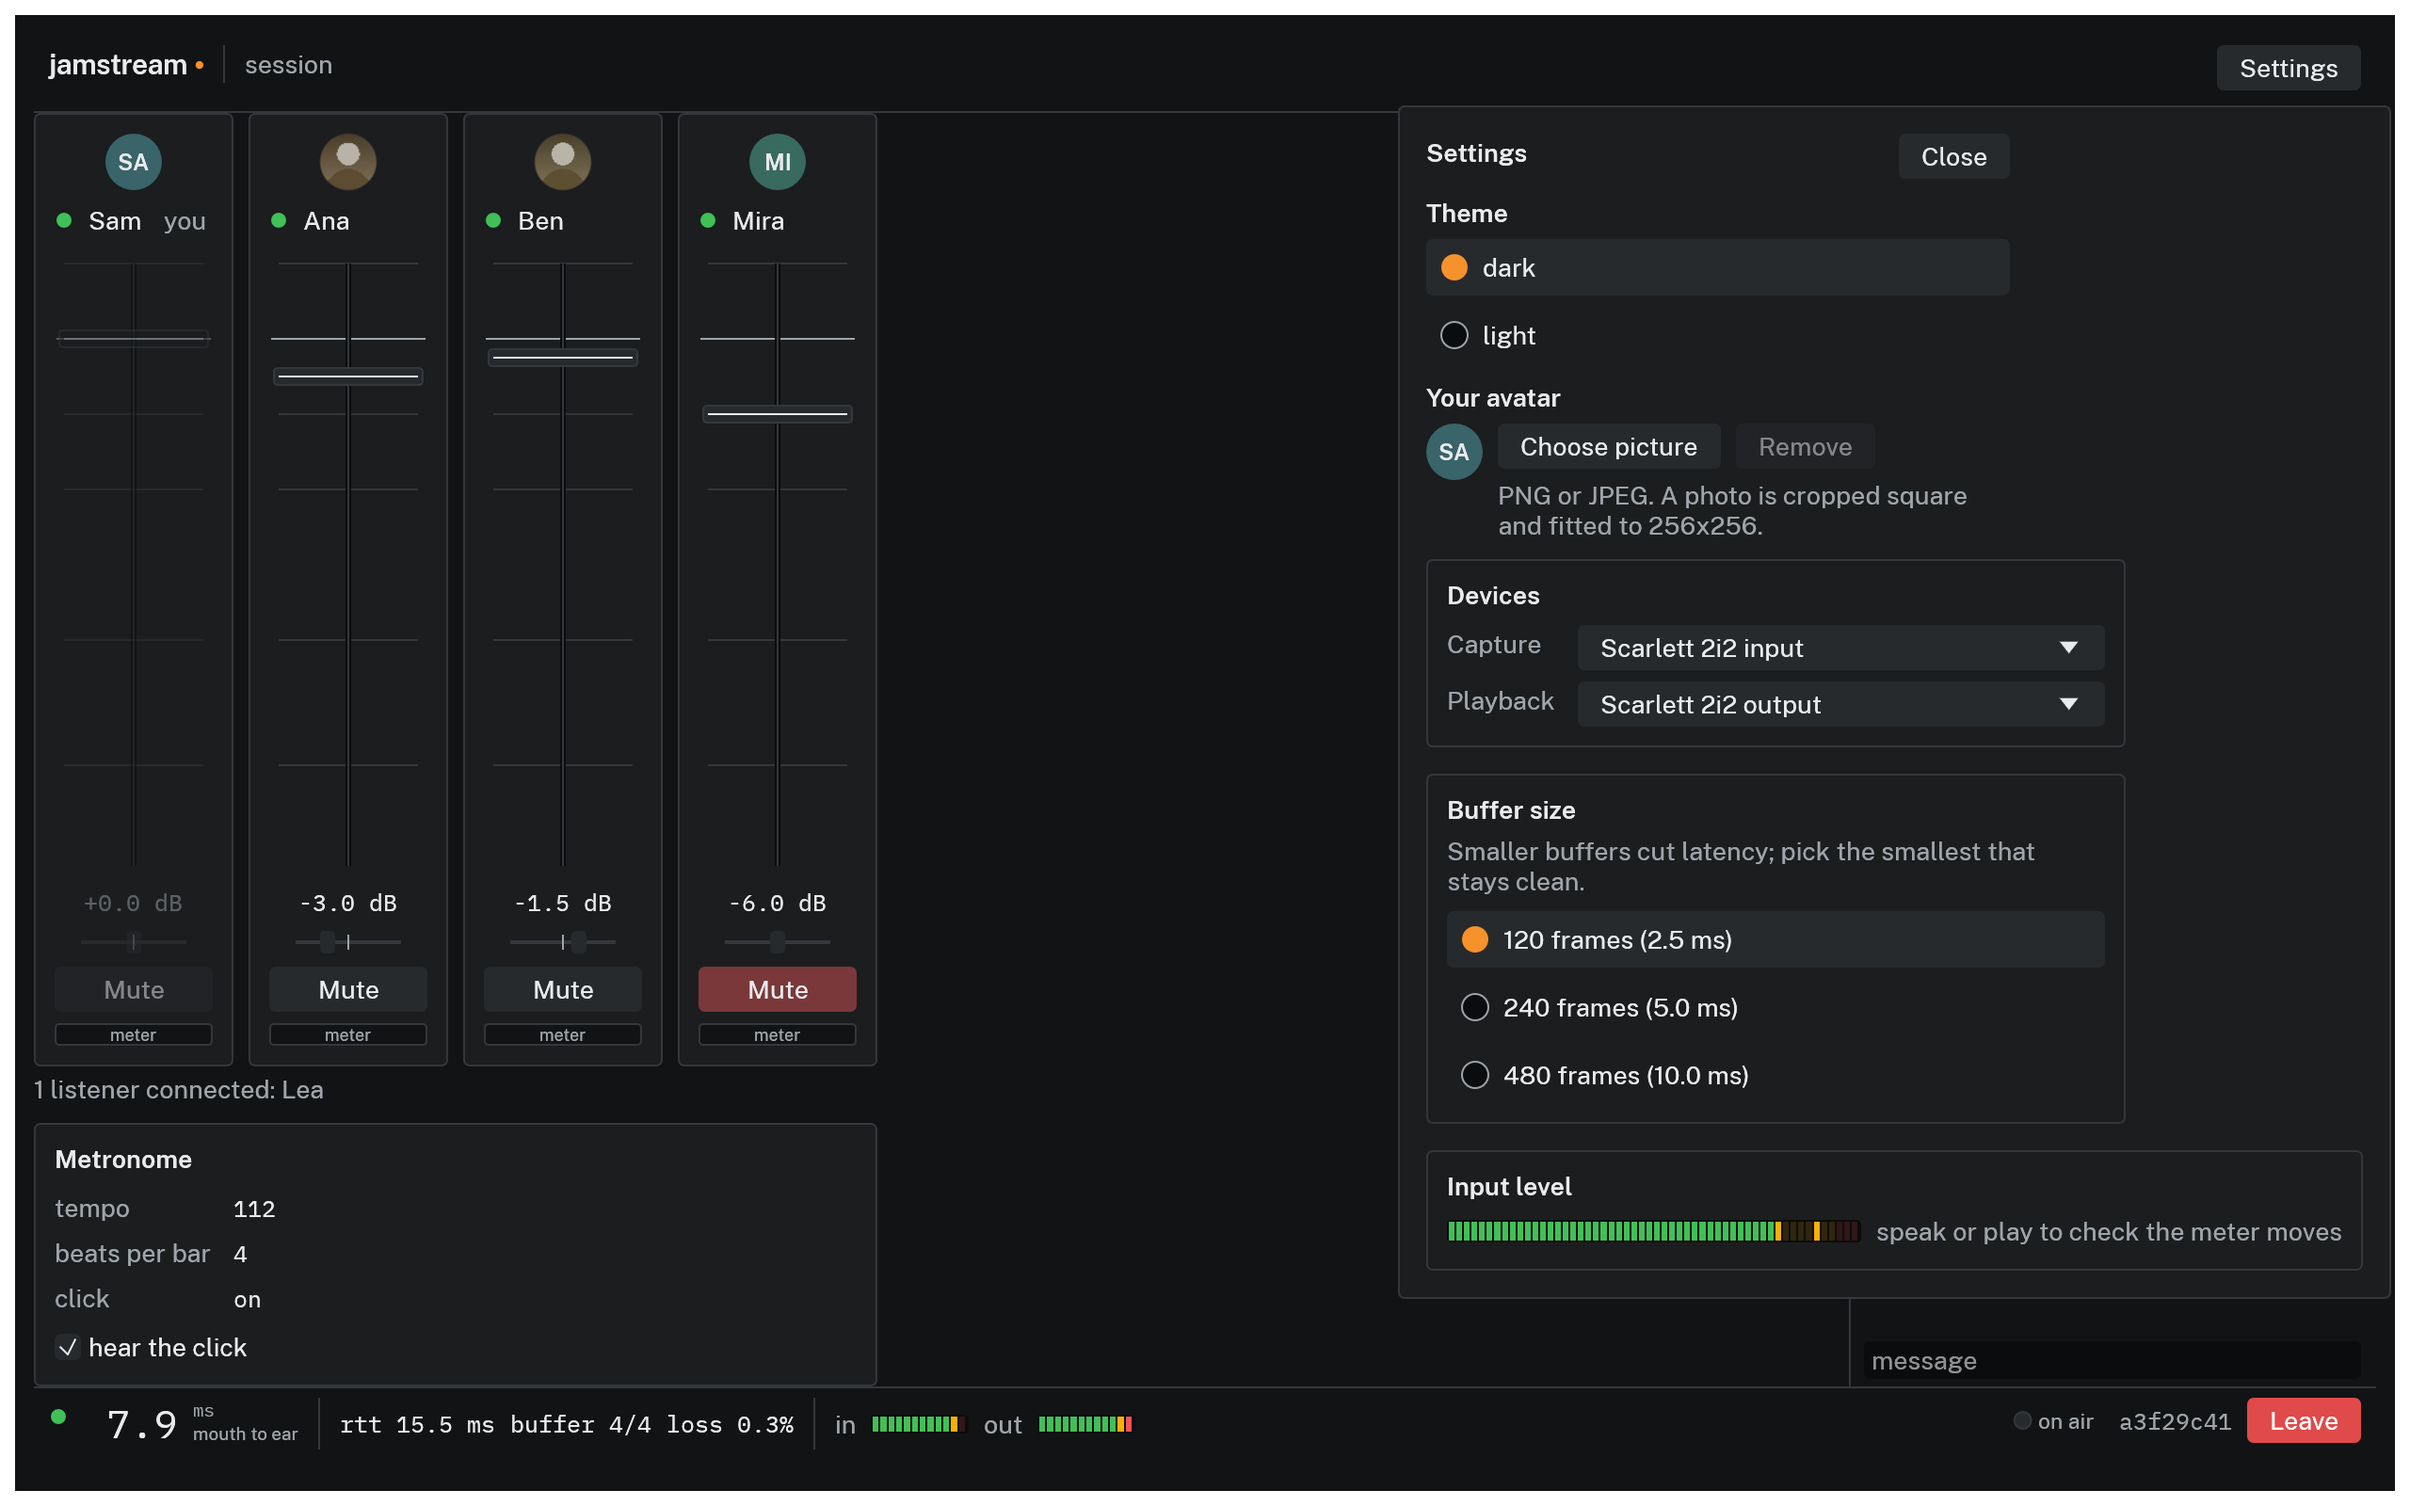
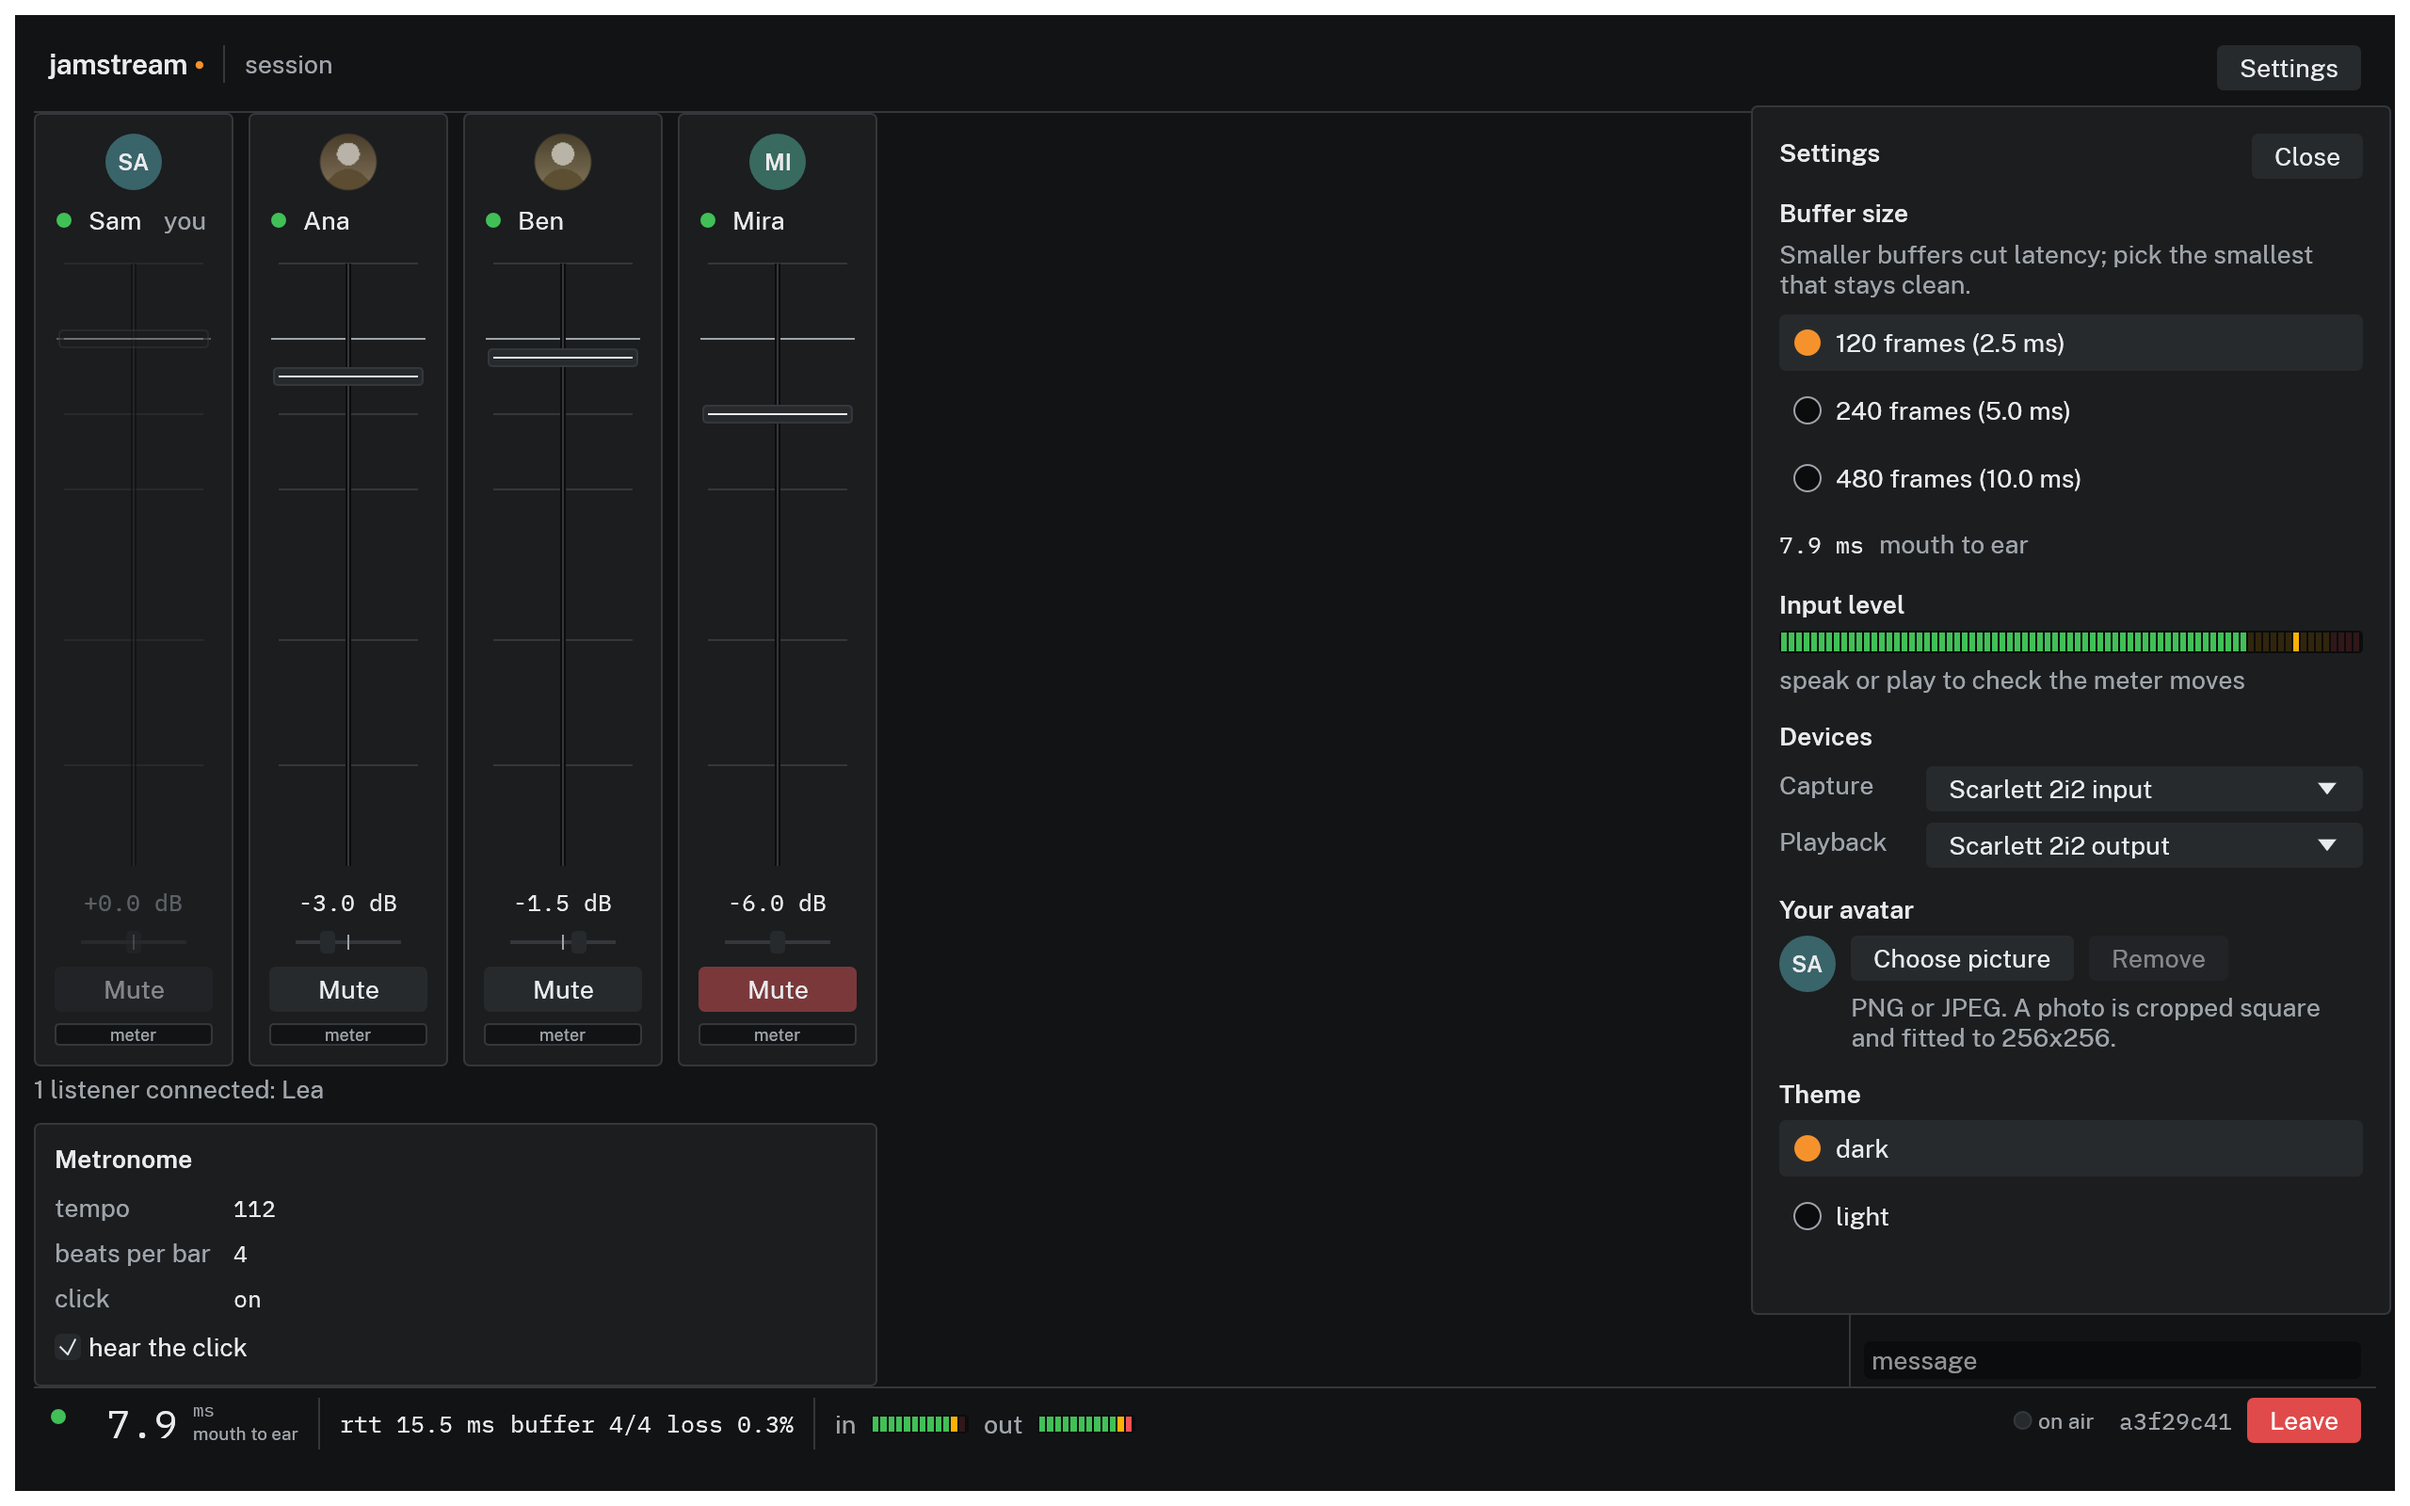
docs: match the settings bullets to the drawer's order
The drawer puts buffer size and input level first, ahead of devices,
because those are the two a musician touches while playing. The list
under the screenshot still ran the other way, and the alt text still
described a sheet with pickers at the top.

diff --git a/site/src/guides/joining.md b/site/src/guides/joining.md
@@ -47,12 +47,12 @@ The headline number in the status bar is mouth to ear latency in milliseconds: f
 
 Settings in the top bar opens over the session without covering the strips or the status bar:
 
-![Settings sheet over the session screen with capture and playback pickers, buffer size choices, and an input level meter](../images/session_settings.png)
+![Settings drawer beside the session: buffer size choices with the current mouth to ear figure, an input level meter, capture and playback pickers, and the avatar row](../images/session_settings.png)
 *Settings mid-session: device and buffer changes apply immediately; the stream reopens in place.*
 
-- **Capture** and **Playback** list your machine's real audio devices, system default first. Changing one mid-session reopens the audio stream on the new device without leaving the session.
-- **Buffer size** offers 120, 240, or 480 frames (2.5, 5, or 10 ms). Pick the smallest that plays clean; crackles mean one step up.
+- **Buffer size** offers 120, 240, or 480 frames (2.5, 5, or 10 ms). Pick the smallest that plays clean; crackles mean one step up. The mouth to ear figure under the choices moves with them, because the buffer is part of it.
 - The **Input level** meter should move when you play. If it is still, the wrong capture device is selected or the operating system has not granted microphone access.
+- **Capture** and **Playback** list your machine's real audio devices, system default first. Changing one mid-session reopens the audio stream on the new device without leaving the session.
 - **Your avatar** opens a file picker: choose a PNG or JPEG and everyone in the session gets the picture over the same encrypted link as the audio. A photo is cropped square and fitted to 256x256 first, so a picture straight off a phone works as it is. The choice lasts for this run of the app; set it again after a restart. Remove drops it here and on your next join, though members already in the session keep the picture you sent them.
 
 ## From the terminal
